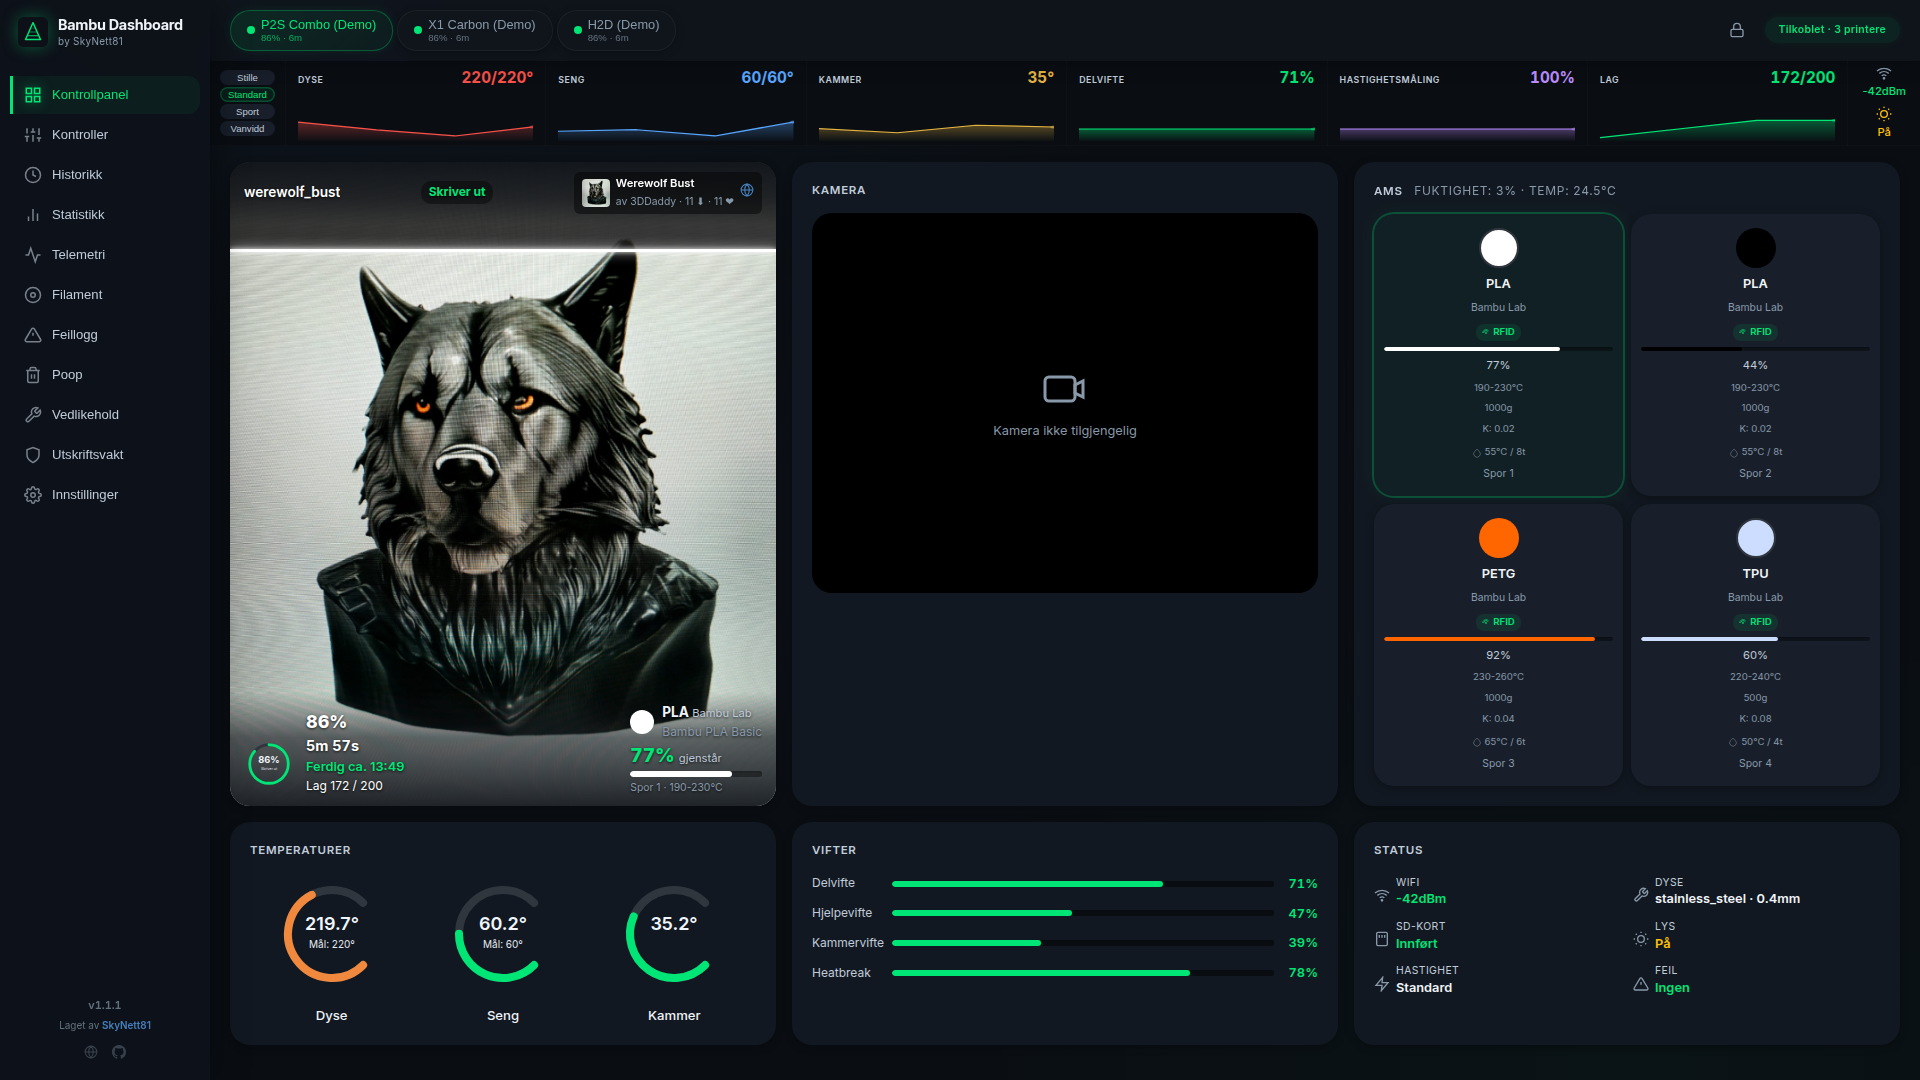
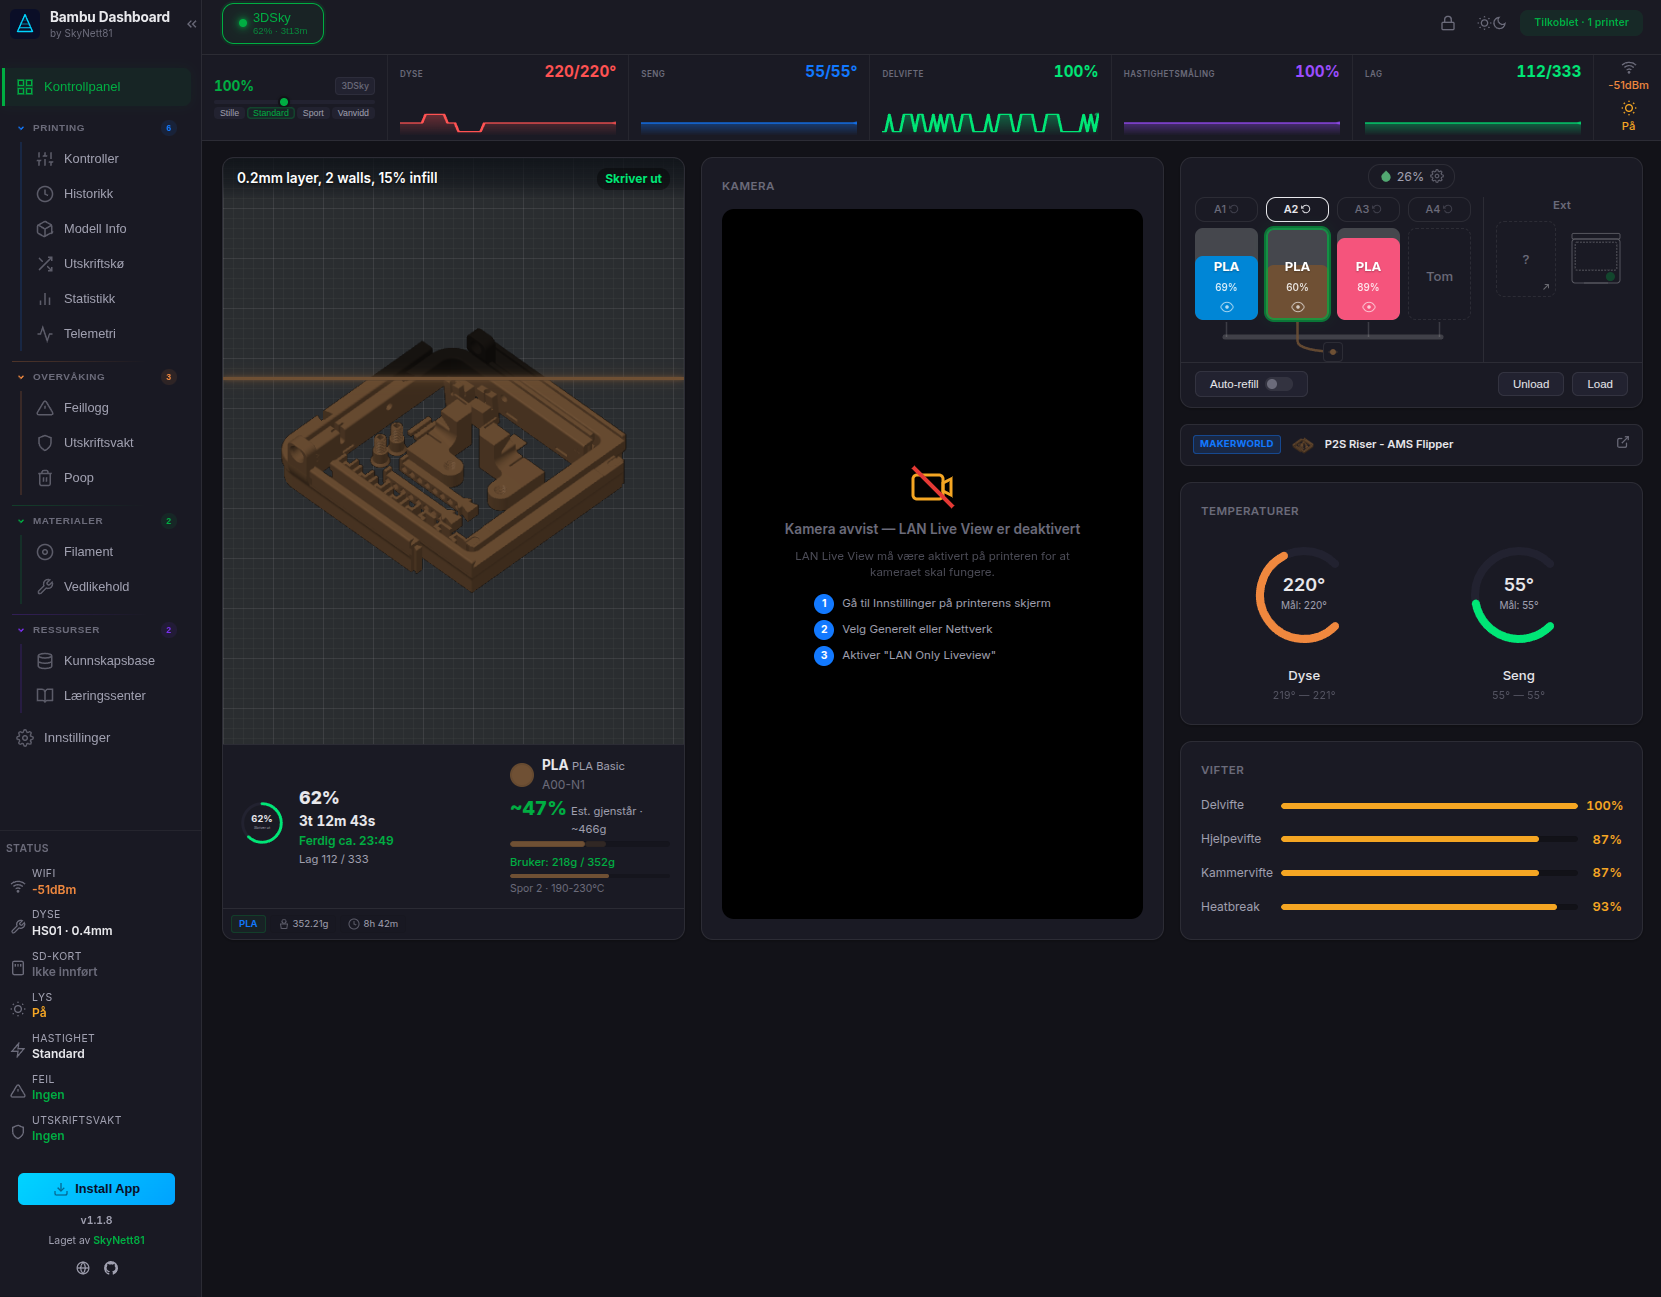
v1.1.9: Print Guard, History Sorting, AMS Redesign & 3D Progress Fix
- Bump version to 1.1.9
- Update dashboard screenshot
- Update changelog with v1.1.7, v1.1.8, v1.1.9 entries
- Bump service worker cache to v5
- Update README changelog reference

diff --git a/public/sw.js b/public/sw.js
@@ -1,4 +1,4 @@
-const CACHE_NAME = 'bambu-dash-v4';
+const CACHE_NAME = 'bambu-dash-v5';
 const PRECACHE = [
   '/',
   '/css/main.css',

diff --git a/docs/changelog.md b/docs/changelog.md
@@ -4,6 +4,103 @@ All notable changes to Bambu Dashboard.
 
 ---
 
+## v1.1.9 — Print Guard, History Sorting, AMS Redesign & 3D Progress Fix (2026-03-08)
+
+### Print Guard / Protection System
+- Fixed guard system being completely non-functional (default settings fallback)
+- Guard now works out-of-the-box without requiring manual database setup
+- Fixed race condition where protection panel overwrote errors panel content
+
+### Error Handling
+- Eliminated false HMS errors (0500_0500, 0500_0600, 0C00_0300)
+- Added print error dedup across server restarts
+- Added PRINT_ERROR_IGNORE set for known false positives (0300_8003)
+- HMS codes in FINISH/IDLE state are now ignored
+
+### History Panel
+- Sort by date, name, duration, filament usage, or status
+- Toggle between grid and list view (compact rows with thumbnails)
+- Sort direction and view mode persisted in localStorage
+
+### Waste History
+- Sortable waste history entries (date, waste, used filament, duration)
+- Client-side sort with toggle direction
+
+### 3D Preview & Fullscreen
+- Progress line now uses actual print percentage (mc_percent) instead of layer ratio
+- Fixes mismatch between progress bar and 3D reveal on both dashboard and fullscreen
+- Added fullscreen info bar with print progress %, status, time remaining, ETA, and layer info
+- Info bar uses proper theme colors for readability in both light and dark mode
+
+### AMS Panel
+- Tabs restyled with pill/capsule borders (Bambu Studio style)
+- Tabs aligned directly above their respective filament cards
+- Humidity indicator now uses pill-style border
+- Layer label in fullscreen uses proper i18n template interpolation
+
+### Translations
+- Added progress state keys: printing, paused, finished, idle, preparing, failed (nb/en)
+- Added history sort keys: sort_date, sort_name, sort_duration, sort_filament, sort_status (nb/en)
+- Added waste sort keys: sort_date, sort_waste, sort_used, sort_duration (nb/en)
+
+### Technical
+- Service worker cache bumped to v5
+- G-code console history styling added
+
+---
+
+## v1.1.8 — Inventory UX, Cost Analytics, AMS Sync & Smart Cost Handling (2026-03-03)
+
+### Inventory & Cost
+- Inventory UX improvements with cost analytics
+- AMS sync enhancements
+- Smart cost handling and recalculation
+
+### Queue & Controls
+- Queue staggering and layer pauses
+- Z-offset wizard
+- Spool refill tracking
+- DYMO/ESC-POS label printing
+
+### Camera & Telemetry
+- Camera screenshots
+- Telemetry charts for print progress, layers, WiFi signal
+- Temperature trends
+
+### Cloud Integration
+- Cloud print history import
+- Retroactive print capture
+- AMS inventory tracking
+- Bambu Cloud login
+- Printer discovery
+
+### UI
+- Settings search
+- Sub-tab navigation for all settings
+- Consolidated filament dashboards
+- Multi-method tag scanner (camera, USB reader, manual entry)
+
+---
+
+## v1.1.7 — NFC Scanner, Filament Tracking & Cloud Thumbnails (2026-03-03)
+
+### Filament & AMS
+- AMS import and filament tools improvements
+- Estimated remaining filament after print on AMS and filament panels
+- Fixed filament remaining mismatch between AMS and active filament panels
+
+### Camera
+- P2S camera detection
+- Cloud thumbnail caching and fallback
+
+### Maintenance
+- Fixed nozzle session retire SQL bug
+
+### Telemetry
+- Telemetry charts for print progress, layers, and WiFi signal
+
+---
+
 ## v1.1.6 — Feature Parity Release (2026-03-03)
 
 ### Learning Center & Knowledge Base

diff --git a/README.md b/README.md
@@ -249,7 +249,7 @@ docker compose pull && docker compose up -d
 
 - **[Features](docs/features.md)** — complete feature list
 - **[Architecture](docs/architecture.md)** — stack, modules, components, project structure, systemd, Pterodactyl
-- **[Changelog](docs/changelog.md)** — version history from v1.0.0 to v1.1.6
+- **[Changelog](docs/changelog.md)** — version history from v1.0.0 to v1.1.9
 - **[Installation Guide](INSTALL.md)** — detailed step-by-step install instructions
 
 ---
